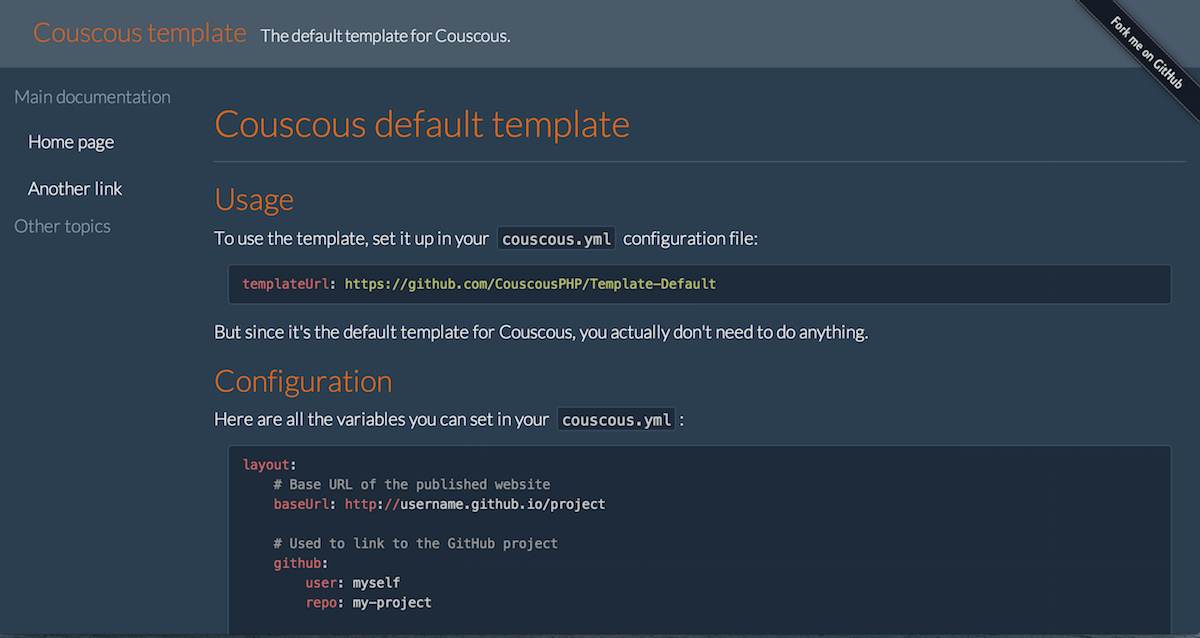
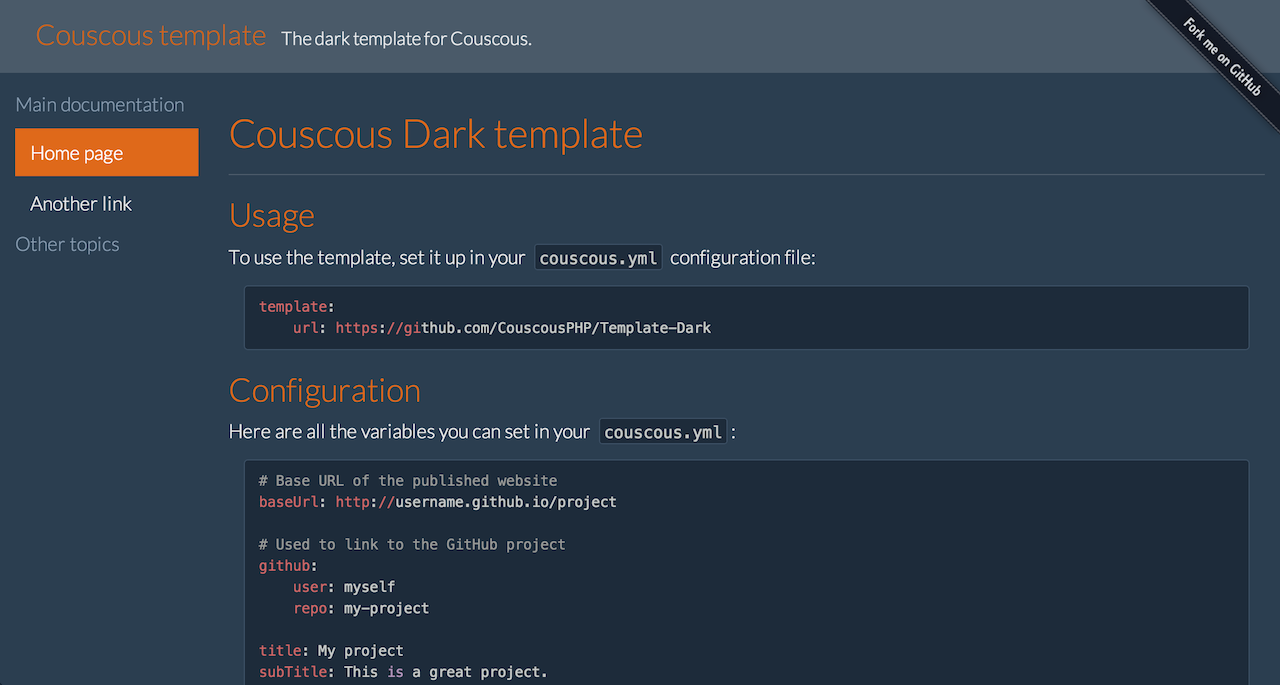
Updated the screenshot

diff --git a/README.md b/README.md
@@ -3,6 +3,8 @@ currentMenu: home
 ---
 # Couscous Dark template
 
+![](screenshot.png)
+
 ## Usage
 
 To use the template, set it up in your `couscous.yml` configuration file:
